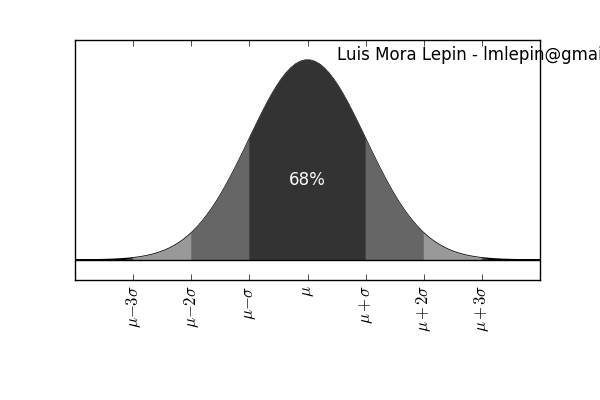
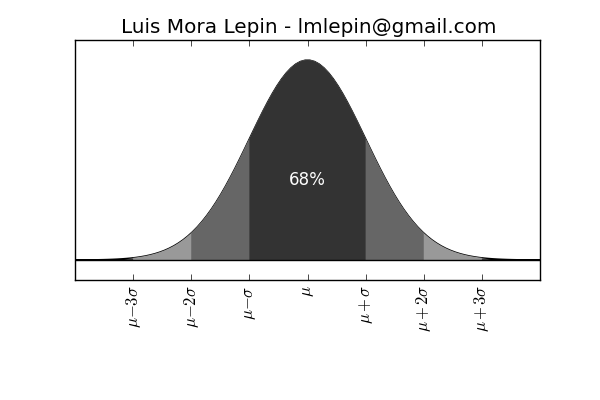
Se agregó la leyenda solicitada

Changed region(s): [[0.21, 0.03, 0.84, 0.09], [0.54, 0.12, 1.0, 0.18]]

diff --git a/gauss_plot.py b/gauss_plot.py
@@ -37,7 +37,7 @@ xtick_labels = (r"$\mu - 3 \sigma$",
                 r"$\mu + 3 \sigma$")
 
 fig = plt.figure(1, figsize=(6, 4))
-plt.text(0.5,1,"Luis Mora Lepin - lmlepin@gmail.com")
+plt.title("Luis Mora Lepin - lmlepin@gmail.com")
 
 ax = fig.add_subplot(111)
 
